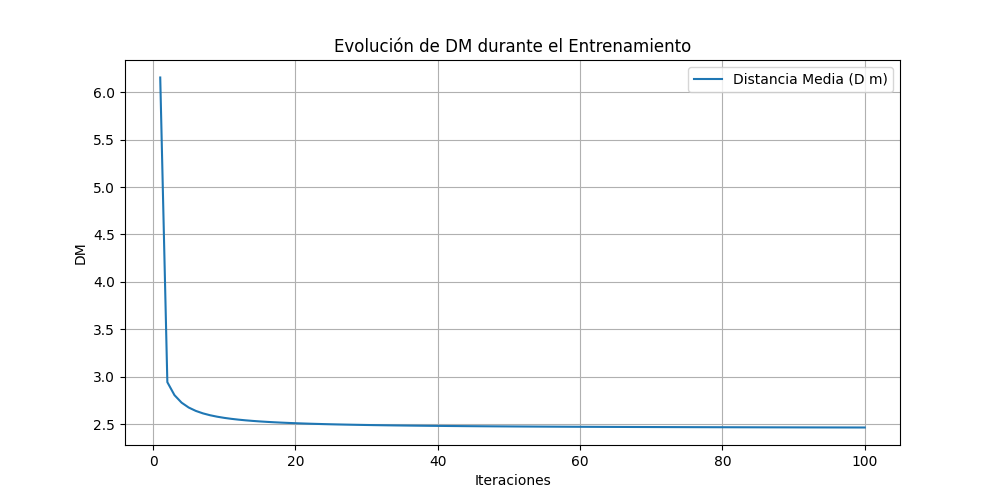
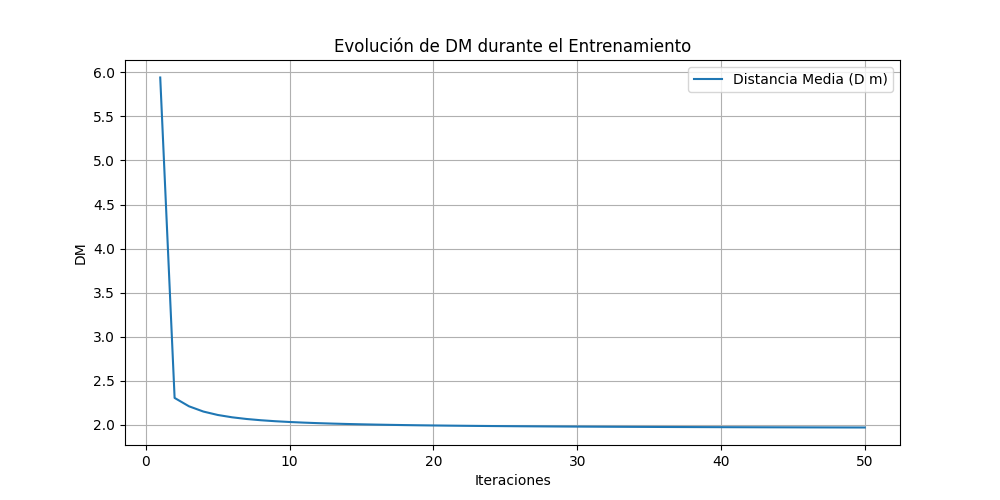
Simulation_Styles

diff --git a/templates/Simulate.html b/templates/Simulate.html
@@ -1,22 +1,137 @@
-<!-- templates/Simulate.html -->
 <!DOCTYPE html>
-<html>
+<html lang="es">
 <head>
+    <meta charset="UTF-8">
+    <meta name="viewport" content="width=device-width, initial-scale=1.0">
     <title>Simulación de la Red Neuronal</title>
+    <style>
+        @import url('https://fonts.googleapis.com/css?family=Exo:400,700');
+
+        * {
+            margin: 0;
+            padding: 0;
+            box-sizing: border-box;
+            font-family: 'Exo', sans-serif;
+        }
+
+        body {
+            height: 100vh;
+            display: flex;
+            align-items: center;
+            justify-content: center;
+            background: radial-gradient(ellipse at bottom, #1B2735 0%, #090A0F 100%);
+            color: #fff;
+            overflow: hidden;
+            position: relative;
+        }
+
+        .container {
+            display: flex;
+            width: 80%;
+            max-width: 1200px;
+            height: auto;
+            background: rgba(255, 255, 255, 0.3);
+            box-shadow: 0 8px 32px 0 rgba(31, 38, 135, 0.37);
+            backdrop-filter: blur(10px);
+            border-radius: 10px;
+            border: 1px solid rgba(255, 255, 255, 0.18);
+        }
+
+        .left {
+            flex: 1;
+            padding: 20px;
+            display: flex;
+            flex-direction: column;
+            justify-content: center;
+        }
+
+        .right {
+            flex: 1;
+            padding: 20px;
+            display: flex;
+            flex-direction: column;
+            align-items: center;
+        }
+
+        .image-container {
+            max-height: 400px; /* Altura máxima del contenedor de imágenes */
+            overflow-y: auto; /* Permitir desplazamiento vertical */
+            width: 100%; /* Ancho completo */
+            padding: 10px;
+            border-radius: 5px;
+            background: rgba(255, 255, 255, 0.2); /* Fondo para el contenedor */
+        }
+
+        h1, h2 {
+            color: #fff;
+            margin-bottom: 20px;
+        }
+
+        label {
+            display: block;
+            margin-top: 10px;
+            text-align: left;
+            color: #fff;
+        }
+
+        input[type="text"],
+        input[type="number"],
+        select {
+            padding: 10px;
+            border-radius: 5px;
+            border: 1px solid #ccc;
+            width: calc(100% - 22px);
+            margin: 10px 0;
+            background: rgba(255, 255, 255, 0.8);
+            color: #333;
+        }
+
+        input[type="submit"] {
+            background: #fcfcfc5b;
+            border: none;
+            border-radius: 5px;
+            color: #fcfcfcb2;
+            padding: 10px 20px;
+            cursor: pointer;
+            transition: background 0.3s ease;
+            margin-top: 20px;
+        }
+
+        input[type="submit"]:hover {
+            background: #005892;
+        }
+
+        .image-container::-webkit-scrollbar {
+            display: none; /* Para Chrome, Safari y Opera */
+        }
+
+        img {
+            max-width: 100%;
+            height: auto;
+            margin-top: 20px;
+            border-radius: 5px;
+        }
+    </style>
 </head>
 <body>
-    <h1>Simulación de la Red Neuronal</h1>
-    <p>{{ message }}</p>
-    <form action="/simulate_result" method="post">
-        <label for="vector">Introduce el vector de entrada (separado por comas):</label>
-        <input type="text" name="vector" id="vector">
-        <input type="submit" value="Simular">
-    </form>
-
-    <h2>Comportamiento de DM</h2>
-    <img src="{{ dm_plot }}" alt="Gráfico de DM">
-
-    <h2>Comportamiento de los Pesos Sinápticos</h2>
-    <img src="{{ weights_plot }}" alt="Gráfico de Pesos Sinápticos">
+    <div class="container">
+        <div class="left">
+            <h1>Simulación de la Red Neuronal</h1>
+            <p>{{ message }}</p>
+            <form action="/simulate_result" method="post">
+                <label for="vector">Introduce el vector de entrada (separado por comas):</label>
+                <input type="text" name="vector" id="vector" required>
+                <input type="submit" value="Simular">
+            </form>
+        </div>
+        <div class="right">
+            <div class="image-container">
+                <h2>Comportamiento de DM</h2>
+                <img src="{{ dm_plot }}" alt="Gráfico de DM">
+                <h2>Comportamiento de los Pesos Sinápticos</h2>
+                <img src="{{ weights_plot }}" alt="Gráfico de Pesos Sinápticos ">
+            </div>
+        </div>
+    </div>
 </body>
 </html>

diff --git a/app.py b/app.py
@@ -117,6 +117,7 @@ def set_config():
 @app.route('/train', methods=['POST'])
 def train():
     global network_config, trained_weights
+    neighborhood_coef = float(network_config['neighborhood_coef'])
     num_patterns = int(network_config['num_patterns'])
     num_inputs = int(network_config['num_inputs'])
     num_neurons = int(network_config['num_neurons'])
@@ -182,10 +183,17 @@ def train():
             # Actualizar pesos
             if competition_type == 'hard':
                 weights[:, winner_idx] += learning_rate * (pattern - weights[:, winner_idx])
+                print(f"Pesos después de actualizar (hard) - Neurona {winner_idx}: {weights[:, winner_idx]}")
             elif competition_type == 'soft':
                 for i in range(num_neurons):
-                    weights[:, i] += learning_rate * (pattern - weights[:, i])
+                    if i != winner_idx:
+                        weights[:, i] += (learning_rate * neighborhood_coef) * (pattern - weights[:, i])
+                weights[:, winner_idx] += learning_rate * (pattern - weights[:, winner_idx])
+                print(f"Pesos después de actualizar (soft): {weights}")
 
+        #print(f"Pesos después de actualizar (hard) - Neurona {winner_idx}: {weights[:, winner_idx]}")
+        #print(f"Pesos después de actualizar (soft): {weights}")
+        
         # Calcular DM para esta iteración
         if valid_patterns > 0:
             dm = dm_sum / valid_patterns
